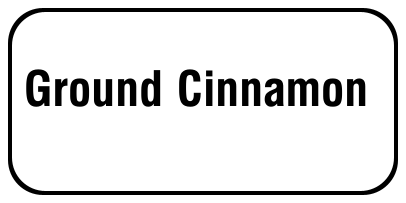
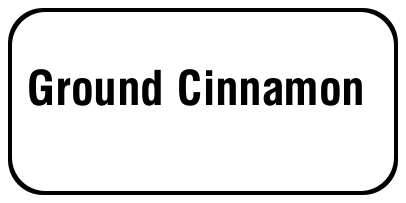
feat: auto-shrink name's font instead of wrapping into overlap
Replaces the name/2x1 templates' fixed 48pt + 2-line ^FB wrap with a
new fitfont template function (internal/label/label.go) that computes
an ^A0 font size keeping Name on one line within the label's width,
shrinking from 48pt down to a 20pt floor as needed. A Name too long
even at the floor still renders single-line at 20pt, running past the
label edge - legible and predictable, instead of the old behavior
where a sufficiently long name's wrapped lines would overlap into
unreadable text.

fitfont is registered as a template.FuncMap entry in Render, so it's
reusable by any future template that needs free text to fit a box, not
name-specific logic. The width estimate (a0CharWidthRatio) is
calibrated empirically against Labelary renders of sample strings and
deliberately biased high, so the estimate errs toward a smaller font
rather than risking overflow - same conservative-estimate approach as
the earlier QR magnification work.

Added TestFitFont (boundary/clamp cases) and
TestRenderFitFontTemplateFunc (confirms the func is wired into
Render's FuncMap) to internal/label/label_test.go. README's
Placeholders section documents fitfont for template authors; AGENTS.md
notes it as shared infra future templates should reuse rather than
duplicate.

Changed region(s): [[0.4433, 0.3251, 0.9163, 0.532], [0.0591, 0.3251, 0.4138, 0.532], [0.3842, 0.3251, 0.4138, 0.3547]]

diff --git a/internal/label/label.go b/internal/label/label.go
@@ -21,6 +21,34 @@ var nameRE = regexp.MustCompile(`^[A-Za-z0-9_./-]+$`)
 // a rendered label rather than just appearing as label text.
 const zplBreakers = "^~"
 
+// a0CharWidthRatio approximates ^A0 (Zebra's default scalable font)'s average
+// character width as a fraction of its height. ^A0 is proportionally spaced,
+// not monospace, so this isn't exact — it's calibrated against Labelary
+// renders of representative strings (short and long, narrow and wide
+// characters) and deliberately biased toward the high end of what was
+// measured (~0.45-0.54), so fitFont's width estimate errs high and its font
+// size errs small rather than risking overflow.
+const a0CharWidthRatio = 0.55
+
+// fitFont returns an ^A0 font size (equal width and height, in dots) that
+// keeps text on one line within maxWidth dots, shrinking from max down to
+// min as needed. If text wouldn't fit even at min, fitFont still returns
+// min — the caller renders a single line that overflows the available
+// width rather than wrapping (which would risk overlapping itself).
+func fitFont(text string, maxWidth, max, min int) int {
+	if text == "" {
+		return max
+	}
+	fit := int(float64(maxWidth) / (float64(len(text)) * a0CharWidthRatio))
+	if fit > max {
+		return max
+	}
+	if fit < min {
+		return min
+	}
+	return fit
+}
+
 // Data is the set of values a template can reference as {{.Key}}. It's
 // deliberately a map rather than a fixed struct: a template's field needs
 // vary by what it's labeling (an asset tag, a mail-from/to address, a
@@ -69,7 +97,10 @@ func Render(path string, data Data) (string, error) {
 		return "", fmt.Errorf("cannot read template: %w", err)
 	}
 
-	tmpl, err := template.New(filepath.Base(path)).Option("missingkey=error").Parse(string(b))
+	tmpl, err := template.New(filepath.Base(path)).
+		Option("missingkey=error").
+		Funcs(template.FuncMap{"fitfont": fitFont}).
+		Parse(string(b))
 	if err != nil {
 		return "", fmt.Errorf("parsing template %s: %w", path, err)
 	}

diff --git a/internal/label/label_test.go b/internal/label/label_test.go
@@ -161,6 +161,54 @@ func TestRenderRejectsZPLBreakerCharacters(t *testing.T) {
 	}
 }
 
+func TestFitFont(t *testing.T) {
+	tests := []struct {
+		name             string
+		text             string
+		maxWidth         int
+		max, min         int
+		want             int
+		wantClampedToMax bool
+		wantClampedToMin bool
+	}{
+		{name: "empty text uses max", text: "", maxWidth: 390, max: 48, min: 20, want: 48},
+		{name: "short text uses max", text: "Jam", maxWidth: 390, max: 48, min: 20, wantClampedToMax: true},
+		{name: "long text shrinks below max", text: "Smoked Spanish Paprika", maxWidth: 390, max: 48, min: 20},
+		{name: "extreme text clamps to min", text: "Extremely Long Spice Jar Label Name Example", maxWidth: 390, max: 48, min: 20, wantClampedToMin: true},
+	}
+	for _, tt := range tests {
+		t.Run(tt.name, func(t *testing.T) {
+			got := fitFont(tt.text, tt.maxWidth, tt.max, tt.min)
+			if got > tt.max || got < tt.min {
+				t.Fatalf("fitFont() = %d, want within [%d, %d]", got, tt.min, tt.max)
+			}
+			if tt.want != 0 && got != tt.want {
+				t.Errorf("fitFont() = %d, want %d", got, tt.want)
+			}
+			if tt.wantClampedToMax && got != tt.max {
+				t.Errorf("fitFont() = %d, want clamped to max %d", got, tt.max)
+			}
+			if tt.wantClampedToMin && got != tt.min {
+				t.Errorf("fitFont() = %d, want clamped to min %d", got, tt.min)
+			}
+		})
+	}
+}
+
+func TestRenderFitFontTemplateFunc(t *testing.T) {
+	dir := t.TempDir()
+	writeTemplate(t, dir, "fit", `{{$sz := fitfont .Name 390 48 20}}^A0N,{{$sz}},{{$sz}}^FD{{.Name}}^FS`)
+
+	got, err := Render(filepath.Join(dir, "fit.zpl"), Data{"Name": "Smoked Spanish Paprika"})
+	if err != nil {
+		t.Fatalf("Render: %v", err)
+	}
+	want := "^A0N,32,32^FDSmoked Spanish Paprika^FS"
+	if got != want {
+		t.Errorf("Render() = %q, want %q", got, want)
+	}
+}
+
 func TestListSortedRelativePaths(t *testing.T) {
 	dir := t.TempDir()
 	writeTemplate(t, dir, "2x1/001", "^XA^XZ")

diff --git a/README.md b/README.md
@@ -180,11 +180,13 @@ return address.
 | ![name/2x1/002](templates/name/2x1/002.png) | `name/2x1/002` | square border, name, centered |
 | ![name/2x1/003](templates/name/2x1/003.png) | `name/2x1/003` | rounded border, name, centered |
 
-A single centered `Name` field — a box or jar label, nothing else. Like
-every free-text field in this project, `Name` isn't length-validated:
-it auto-wraps up to 2 lines via `^FB`, but a value too long for that
-will overlap itself rather than erroring or shrinking to fit. Keep it
-short (a word or two).
+A single centered `Name` field — a box or jar label, nothing else. Its
+font size isn't fixed: the template calls a `fitfont` function (a
+built-in template function, see [Placeholders](#placeholders) below)
+that shrinks it to keep `Name` on one line within the label, down to a
+20pt floor. A `Name` long enough to need smaller than that still
+renders at the floor size, on one line, running past the label's edge
+rather than wrapping into overlapping text.
 
 ### Template style
 
@@ -221,19 +223,28 @@ field name it needs — there's no fixed list — supplied from two sources:
 - `{{.CompanyName}}` / `{{.AssetURL}}` — always set, from `zplkit.toml`'s
   `company_name` / `asset_url`.
 - Anything else, via a repeatable `-f`/`--field KEY=VALUE` flag on
-  `print`. `{{.Tag}}` is the one in use today (set by `print`'s positional
-  `TAG` argument as shorthand for `-f Tag=...`, and additionally checked
-  against `^[A-Z]{2,4}-[0-9]{6}$`); a mail-to template might reference
-  `{{.Name}}`/`{{.Address1}}`/`{{.City}}`/`{{.State}}`/`{{.ZIP}}`, set via
-  `-f Name="Jane Doe" -f Address1="123 Main St" -f City=Springfield -f
-  State=IL -f ZIP=62701` (one `-f` per field — a field's value isn't
-  comma-split, so addresses containing commas are safe).
+  `print`. `{{.Tag}}` (checked against `^[A-Z]{2,4}-[0-9]{6}$`) is set
+  by `print`'s positional `TAG` argument as shorthand for `-f Tag=...`;
+  `mail-to`/`mail-from` use `{{.Name}}`/`{{.Address1}}`/`{{.City}}`/
+  `{{.State}}`/`{{.ZIP}}`, set via `-f Name="Jane Doe" -f Address1="123
+  Main St" -f City=Springfield -f State=IL -f ZIP=62701` (one `-f` per
+  field — a field's value isn't comma-split, so addresses containing
+  commas are safe).
 
 Referencing a field that doesn't exist (a typo, or one nobody supplied
 via `-f`) is a hard error at render time, not a silently blank or literal
 `{{...}}` in the output. Every field value is also rejected if it
 contains `^` or `~` (ZPL command prefixes), regardless of which field or
 where its value came from.
+
+Templates also have one built-in template function beyond Go's own
+(`len`, `printf`, etc.): `{{fitfont <text> <maxWidthDots> <maxFont>
+<minFont>}}` returns an `^A0` font size (dots) that keeps `<text>` on
+one line within `<maxWidthDots>`, shrinking from `<maxFont>` down to
+`<minFont>` as needed — text too long even at `<minFont>` still gets
+`<minFont>`, on one line, rather than wrapping. It's an estimate (`^A0`
+is proportionally spaced, not monospace) biased to avoid overflow
+rather than to be exact. See `templates/name/2x1/001.zpl`.
 
 ### Adding a template
 

diff --git a/AGENTS.md b/AGENTS.md
@@ -192,6 +192,15 @@ Use conventional-commits style:
   template. This is now the one enforced choke point for "does this value end up
   verbatim in ZPL," regardless of whether it came from config or a CLI `-f` flag — see
   Security below.
+- `label.Render`'s template gets one custom func beyond Go's defaults: `fitfont` (backed
+  by `fitFont` in `label.go`), which returns an `^A0` font size that keeps a string on
+  one line within a given width, shrinking between a max/min — used by
+  `templates/name/2x1/*.zpl` so a long `Name` shrinks instead of wrapping into
+  overlapping text. It's a reusable template func, not `name`-category-specific logic,
+  so any future template needing the same "fit free text into a box" behavior should
+  reuse it rather than duplicating the math. `a0CharWidthRatio` is an empirical
+  estimate (Labelary-measured, biased high so the width estimate never undershoots) —
+  recalibrate it, not the call sites, if it turns out wrong for a particular font/size.
 
 ### Testing
 
